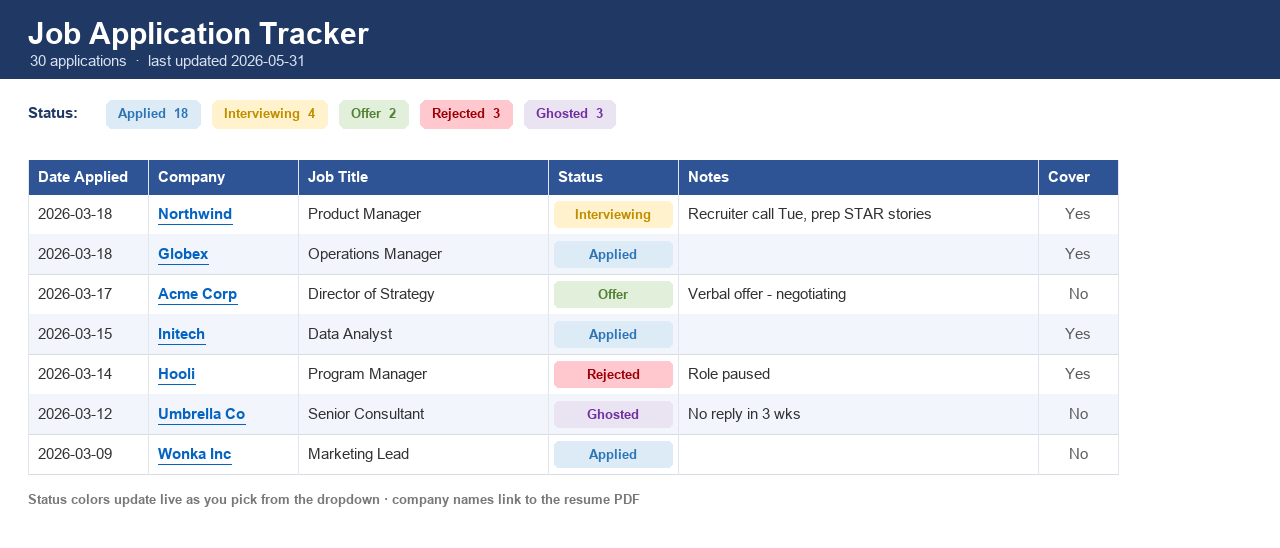
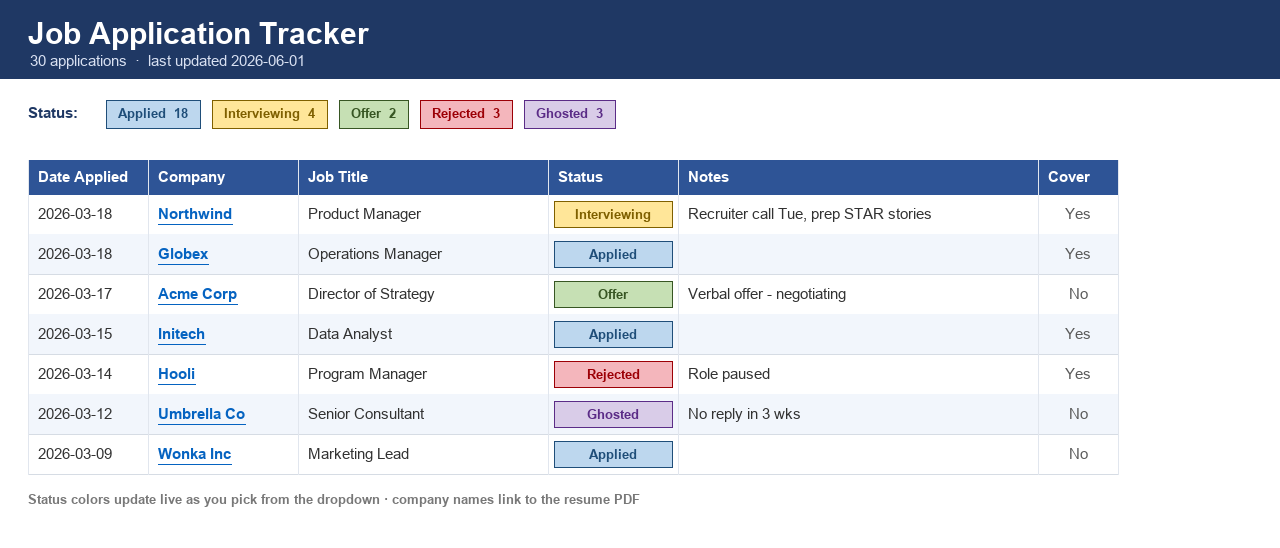
Make status badges more vivid: punchier fills, centered text, colored borders
Deepen the status palette so the conditional-format fills read clearly as
colored badges (the old tints were nearly invisible on wide cells), center
the status text, and add a matching border. Update the preview to square
cells so it reflects what Excel actually renders (cells can't be rounded).

Changed region(s): [[0.4062, 0.3412, 0.5312, 0.6515], [0.0625, 0.1551, 0.3438, 0.2482], [0.4062, 0.7755, 0.5312, 0.8686]]

diff --git a/update_job_report.py b/update_job_report.py
@@ -49,16 +49,16 @@ DEFAULT_STATUS = "Applied"
 # Options offered in the Status dropdown of the .xlsx, each with (fill, font) colors.
 # Order here is also the order shown in the summary legend.
 STATUS_STYLES = {
-    "To Apply":     ("E7E6E6", "7F7F7F"),
-    "Applied":      ("DDEBF7", "2E75B6"),
-    "Phone Screen": ("D6EAF8", "1F6391"),
-    "Interviewing": ("FFF2CC", "BF8F00"),
-    "Final Round":  ("FCE4D6", "C55A11"),
-    "Offer":        ("E2EFDA", "548235"),
-    "Accepted":     ("C6EFCE", "006100"),
-    "Rejected":     ("FFC7CE", "9C0006"),
-    "Withdrawn":    ("F2F2F2", "808080"),
-    "Ghosted":      ("EAE3F2", "7030A0"),
+    "To Apply":     ("D9D9D9", "595959"),
+    "Applied":      ("BDD7EE", "1F4E79"),
+    "Phone Screen": ("BDE3F0", "11567A"),
+    "Interviewing": ("FFE699", "7F6000"),
+    "Final Round":  ("F8CBAD", "843C0C"),
+    "Offer":        ("C6E0B4", "375623"),
+    "Accepted":     ("A9D08E", "2C4218"),
+    "Rejected":     ("F4B6BC", "9C0006"),
+    "Withdrawn":    ("E2E2E2", "767171"),
+    "Ghosted":      ("D9CCE8", "5B2C87"),
 }
 STATUS_OPTIONS = list(STATUS_STYLES.keys())
 
@@ -407,7 +407,7 @@ def write_xlsx(path, rows, today):
             c = ws.cell(row=excel_row, column=col, value=r.get(name, ""))
             c.border = border
             c.alignment = wrap if name in ("Notes", "Source Files") else topleft
-            if name == "Cover Letter?":
+            if name in ("Cover Letter?", "Status"):
                 c.alignment = center
             if i % 2 == 1:
                 c.fill = PatternFill("solid", fgColor=stripe)
@@ -432,10 +432,12 @@ def write_xlsx(path, rows, today):
         dv.add(rng)
         # ---- live color-coding: recolors instantly when you pick a status ----
         for status, (fill_hex, font_hex) in STATUS_STYLES.items():
+            edge = Side(style="thin", color=font_hex)
             ws.conditional_formatting.add(rng, CellIsRule(
                 operator="equal", formula=[f'"{status}"'],
                 fill=PatternFill(start_color=fill_hex, end_color=fill_hex, fill_type="solid"),
-                font=Font(bold=True, color=font_hex)))
+                font=Font(bold=True, color=font_hex),
+                border=Border(left=edge, right=edge, top=edge, bottom=edge)))
 
     # ---- widths, freeze, filter ----
     widths = {